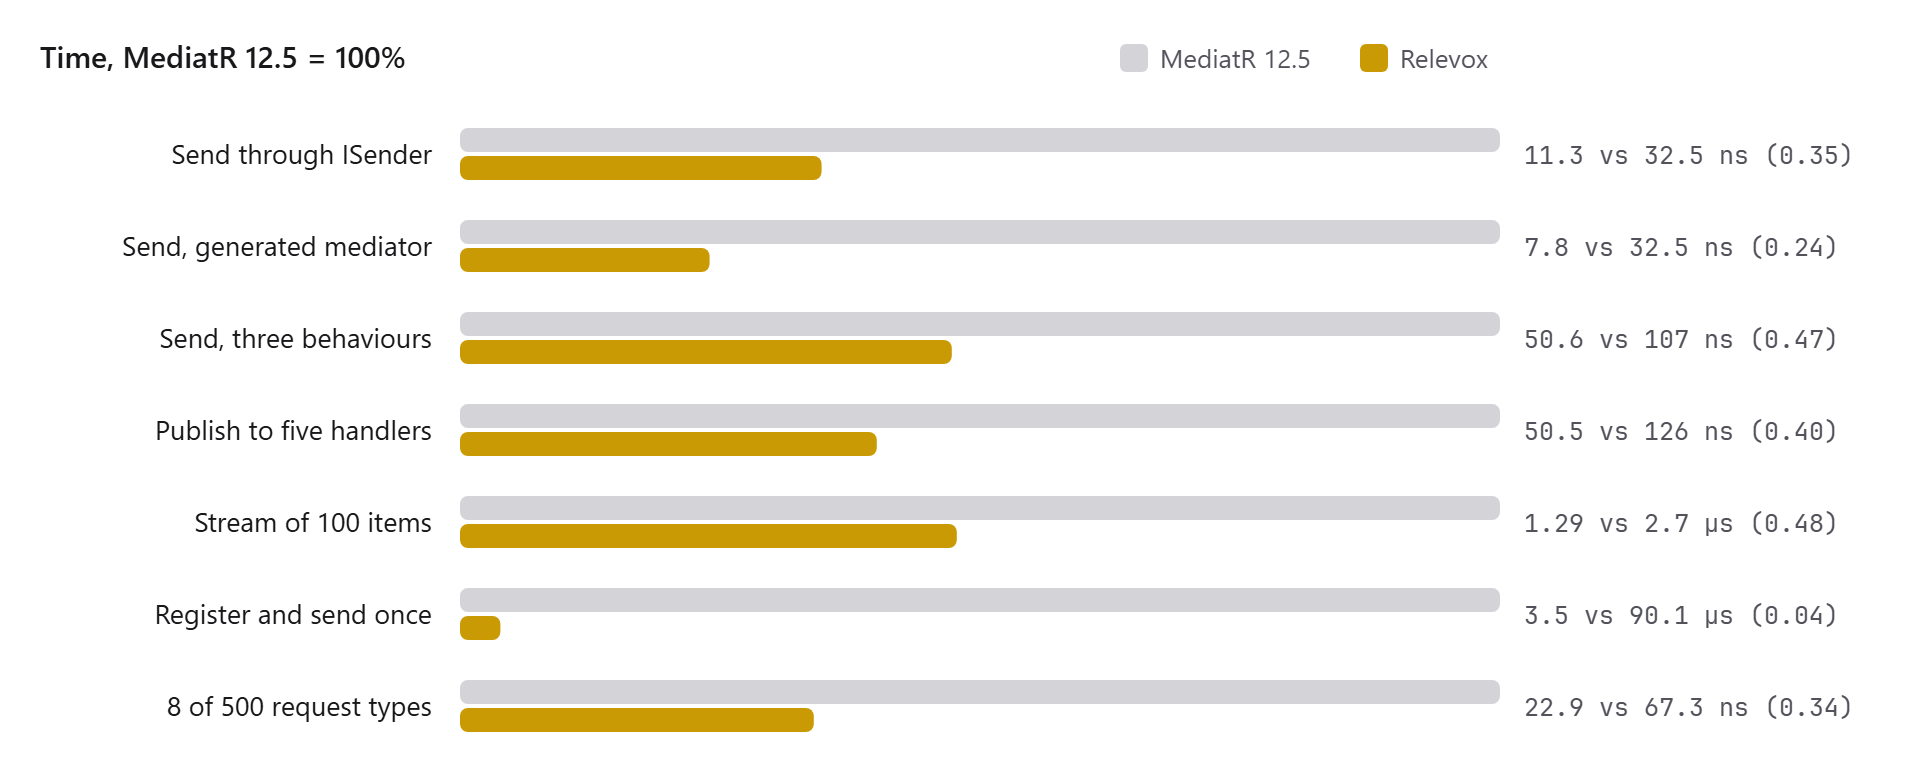
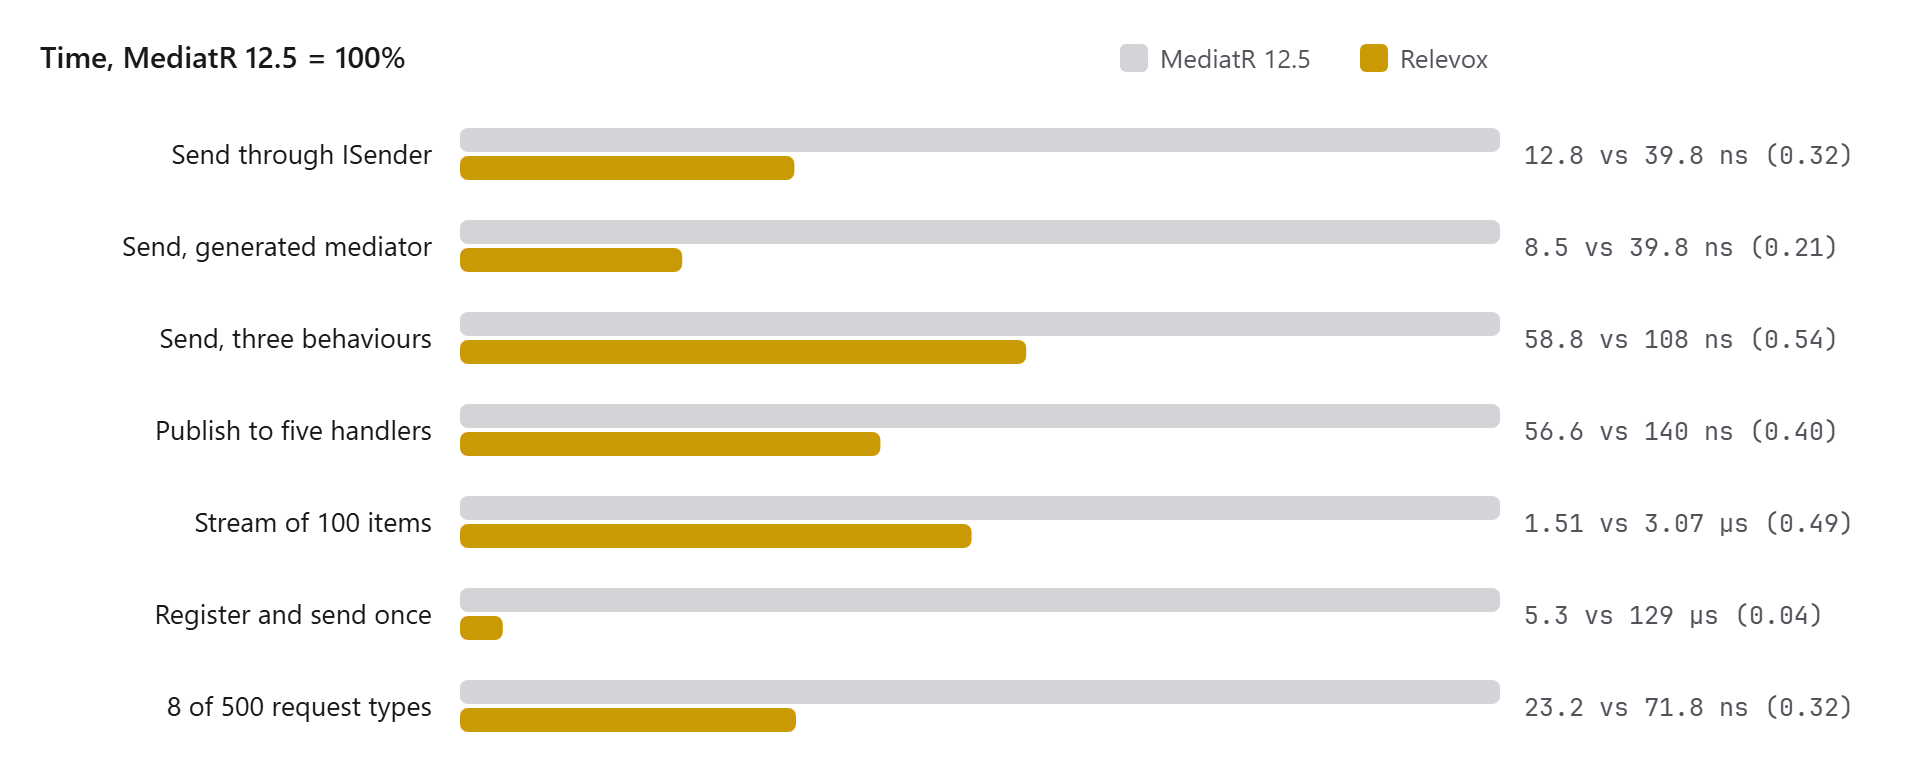
chore: release 1.1.0 with every benchmark run again

diff --git a/tools/diagrams.py b/tools/diagrams.py
@@ -152,15 +152,15 @@ def migration(t):
     ]
 
 
-# The README's benchmark table, from docs/benchmark-results/2026-10-20-1.0.1.md: (label, MediatR, Relevox, unit).
+# The README's benchmark table, from docs/benchmark-results/2026-10-20-1.1.0.md: (label, MediatR, Relevox, unit).
 BENCHMARKS = [
-    ("Send through ISender", 32.5, 11.3, "ns"),
-    ("Send, generated mediator", 32.5, 7.8, "ns"),
-    ("Send, three behaviours", 107, 50.6, "ns"),
-    ("Publish to five handlers", 126, 50.5, "ns"),
-    ("Stream of 100 items", 2.70, 1.29, "µs"),
-    ("Register and send once", 90.1, 3.5, "µs"),
-    ("8 of 500 request types", 67.3, 22.9, "ns"),
+    ("Send through ISender", 39.8, 12.8, "ns"),
+    ("Send, generated mediator", 39.8, 8.5, "ns"),
+    ("Send, three behaviours", 108, 58.8, "ns"),
+    ("Publish to five handlers", 140, 56.6, "ns"),
+    ("Stream of 100 items", 3.07, 1.51, "µs"),
+    ("Register and send once", 129, 5.3, "µs"),
+    ("8 of 500 request types", 71.8, 23.2, "ns"),
 ]
 
 

diff --git a/docs/benchmark-results/2026-10-20-1.1.0.md b/docs/benchmark-results/2026-10-20-1.1.0.md
@@ -1,0 +1,97 @@
+# 1.1.0: every benchmark on the release code
+
+Same machine and harness as the earlier results, every benchmark class run on the 1.1.0 code, one class at a
+time:
+
+```
+BenchmarkDotNet v0.15.8, Windows 11 (10.0.26100.9448/24H2)
+Intel Core Ultra 7 255H 2.00GHz, 16 logical and 16 physical cores
+.NET SDK 10.0.402, runtime .NET 10.0.13, X64 RyuJIT x86-64-v3, DefaultJob
+```
+
+The machine was busier than for [1.0.1](2026-10-20-1.0.1.md): MediatR's own send measured 39.8 ns here against
+32.5 ns then, and BenchmarkDotNet called several distributions bimodal. Compare each library with MediatR in the
+same table, not absolute numbers across runs.
+
+## What 1.1.0 changed in these numbers
+
+Nothing in the send, publish or stream paths. The changes that touch generated code are registrations, made
+once at startup, and diagnostics.
+
+- **Register and send once** allocates 19.5 KB against 17.5 KB in 1.0.1. Which handlers the mediator may hold
+  is now worked out when the first mediator is built, from the registrations then in force, which builds the
+  lifetime table a second time.
+- **Send with three behaviours** came out at 0.55 of MediatR, against 0.47 for 1.0.1. The pipeline path did not
+  change, and an A/B run of 1.0.1 and 1.1.0 on this machine, twice each, put them in overlapping ranges:
+  1.0.1 at 60.4 and 49.5 ns, 1.1.0 at 55.6 and 69.4 ns, with MediatR between 114 and 134 ns. The allocation,
+  392 B, is the same. Read this row as noise until a quieter run says otherwise.
+
+## Send
+
+| | Mean | Ratio | Allocated |
+|---|---:|---:|---:|
+| MediatR 12.5 | 39.77 ns | 1.00 | 128 B |
+| **Relevox, typed** | **8.54 ns** | **0.22** | 24 B |
+| Relevox, `ISender` | 12.79 ns | 0.32 | 24 B |
+| Relevox, object | 19.25 ns | 0.49 | 120 B |
+| Relevox singletons, typed | 0.98 ns | 0.02 | 0 B |
+| Relevox singletons, `ISender` | 5.82 ns | 0.15 | 0 B |
+| MediatR 12.5, object | 39.13 ns | 0.99 | 224 B |
+| Mediator 3.0, typed | 0.97 ns | 0.02 | 0 B |
+| Mediator 3.0, `ISender` | 6.10 ns | 0.15 | 0 B |
+| Mediator 3.0, object | 12.42 ns | 0.31 | 24 B |
+
+## Pipeline with three behaviours
+
+| | Mean | Ratio | Allocated |
+|---|---:|---:|---:|
+| MediatR 12.5 | 107.68 ns | 1.00 | 656 B |
+| **Relevox, typed** | **58.84 ns** | **0.55** | 392 B |
+| Mediator 3.0, typed | 9.48 ns | 0.09 | 0 B |
+
+## Built-in pre and post processors
+
+| | Mean | Ratio | Allocated |
+|---|---:|---:|---:|
+| MediatR 12.5 | 194.22 ns | 1.00 | 1088 B |
+| **Relevox, typed** | **81.06 ns** | **0.42** | 456 B |
+
+## Publish
+
+| | Mean | Ratio | Allocated |
+|---|---:|---:|---:|
+| MediatR 12.5, 1 handler | 54.40 ns | 1.00 | 288 B |
+| **Relevox, 1 handler** | **11.77 ns** | **0.22** | 24 B |
+| Mediator 3.0, 1 handler | 1.94 ns | 0.04 | 0 B |
+| MediatR 12.5, 5 handlers | 140.04 ns | 2.59 | 896 B |
+| **Relevox, 5 handlers** | **56.58 ns** | **1.05** | 120 B |
+| Mediator 3.0, 5 handlers | 15.59 ns | 0.29 | 0 B |
+
+## Stream of 100 items
+
+| | Mean | Ratio | Allocated |
+|---|---:|---:|---:|
+| MediatR 12.5 | 3.065 µs | 1.00 | 592 B |
+| **Relevox, typed** | **1.505 µs** | **0.49** | 328 B |
+| Mediator 3.0, typed | 1.411 µs | 0.46 | 200 B |
+
+## Register and send once
+
+| | Mean | Ratio | Allocated |
+|---|---:|---:|---:|
+| MediatR 12.5 | 129.39 µs | 1.00 | 361.6 KB |
+| **Relevox** | **5.27 µs** | **0.04** | 19.5 KB |
+| Mediator 3.0 | 16.00 µs | 0.12 | 49.2 KB |
+
+## 500 request types
+
+| | Mean | Ratio | Allocated |
+|---|---:|---:|---:|
+| MediatR 12.5 | 50.07 ns | 1.00 | 128 B |
+| **Relevox, typed** | **9.96 ns** | **0.20** | 24 B |
+| Relevox, `ISender` | 16.24 ns | 0.32 | 24 B |
+| Mediator 3.0 transient, typed | 39.36 ns | 0.79 | 88 B |
+| Mediator 3.0 transient, `ISender` | 37.61 ns | 0.75 | 88 B |
+| MediatR 12.5, 8 types in turn | 71.78 ns | 1.43 | 184 B |
+| **Relevox, `ISender`, 8 types in turn** | **23.18 ns** | **0.46** | 24 B |
+| Mediator 3.0 transient, `ISender`, 8 types in turn | 60.18 ns | 1.20 | 88 B |

diff --git a/README.md b/README.md
@@ -55,28 +55,29 @@ anything:
 
 <picture>
   <source media="(prefers-color-scheme: dark)" srcset="docs/images/benchmarks-dark.png">
-  <img src="docs/images/benchmarks-light.png" alt="Relevox's time as a share of MediatR 12.5's, from 0.04 for registering and sending once to 0.48 for a stream of 100 items" width="760">
+  <img src="docs/images/benchmarks-light.png" alt="Relevox's time as a share of MediatR 12.5's, from 0.04 for registering and sending once to 0.55 for a send with three behaviours" width="760">
 </picture>
 
 Measured with BenchmarkDotNet 0.15.8 on an Intel Core Ultra 7 255H, .NET 10.0.13, Windows 11. Full tables,
 and what each number does and does not show, are in
-[docs/benchmark-results/2026-10-20-1.0.1.md](docs/benchmark-results/2026-10-20-1.0.1.md), measured for 1.0.1.
+[docs/benchmark-results/2026-10-20-1.1.0.md](docs/benchmark-results/2026-10-20-1.1.0.md), measured for 1.1.0 on a
+busier machine than 1.0.1's run, so compare the ratios rather than the times.
 With allocations:
 
 | | MediatR 12.5 | Relevox | Relevox as a share of MediatR |
 |---|---:|---:|---:|
-| Send, through `ISender` | 32.5 ns, 128 B | 11.3 ns, 24 B | 0.35 |
-| Send, through the generated mediator | 32.5 ns, 128 B | 7.8 ns, 24 B | 0.24 |
-| Send with three behaviours | 107 ns, 656 B | 50.6 ns, 392 B | 0.47 |
-| Publish to five handlers | 126 ns, 896 B | 50.5 ns, 120 B | 0.40 |
-| Stream of 100 items | 2.70 µs, 592 B | 1.29 µs, 328 B | 0.48 |
-| Register and send once | 90.1 µs | 3.5 µs | 0.04 |
-| Eight request types in turn, of 500 | 67.3 ns | 22.9 ns | 0.34 |
+| Send, through `ISender` | 39.8 ns, 128 B | 12.8 ns, 24 B | 0.32 |
+| Send, through the generated mediator | 39.8 ns, 128 B | 8.5 ns, 24 B | 0.22 |
+| Send with three behaviours | 108 ns, 656 B | 58.8 ns, 392 B | 0.55 |
+| Publish to five handlers | 140 ns, 896 B | 56.6 ns, 120 B | 0.40 |
+| Stream of 100 items | 3.07 µs, 592 B | 1.51 µs, 328 B | 0.49 |
+| Register and send once | 129 µs | 5.3 µs | 0.04 |
+| Eight request types in turn, of 500 | 71.8 ns | 23.2 ns | 0.32 |
 
 Mediator 3.0, the other source-generated library, holds handlers as singletons by default, which Relevox does
 on request; a typed send then takes about 1 ns in both. Mediator stays ahead on behaviours and publishing,
-which it composes at build time. With transient handlers in both, Relevox's typed send is 9.7 ns against
-Mediator's 32.5 ns. Mediator's handlers return `ValueTask`, so moving to it means rewriting them;
+which it composes at build time. With transient handlers in both, Relevox's typed send is 10.0 ns against
+Mediator's 39.4 ns. Mediator's handlers return `ValueTask`, so moving to it means rewriting them;
 that is the trade [ADR 0002](docs/adr/0002-task-not-valuetask.md) explains.
 
 ## Quick start

diff --git a/CHANGELOG.md b/CHANGELOG.md
@@ -42,6 +42,9 @@ All notable changes to this project are written down here. The format follows
   `AddRelevox` was still held by the mediator, so one instance was shared where the container hands out a new
   one each time. Which handlers the mediator may hold is now read when the first mediator is built.
 
+Every benchmark was run again on this code ([results](docs/benchmark-results/2026-10-20-1.1.0.md)). Nothing on the
+send, publish or stream paths changed; registering allocates 2 KB more.
+
 ## [1.0.1] - 2026-10-20
 
 ### Fixed
